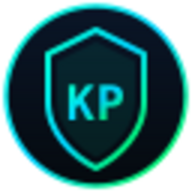
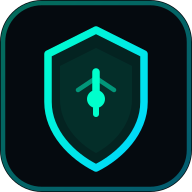
fix: переделан фавикон и логотип
- Фавикон: новый SVG щит (без текста, чёткие пути), ICO с 3 размерами (16/32/48)
- Добавлен app/favicon.ico для Next.js App Router
- PNG иконки пересозданы через rsvg-convert (чёткие, без артефактов)
- Логотип в сайдбаре: Shield иконка вместо текста КР
- data-text атрибут на заголовке для глитч-эффекта

diff --git a/components/shared/BottomNav.tsx b/components/shared/BottomNav.tsx
@@ -2,7 +2,7 @@
 
 import Link from "next/link";
 import { usePathname } from "next/navigation";
-import { Home, Gamepad2, Newspaper, User, BookOpen, Info } from "lucide-react";
+import { Home, Gamepad2, Newspaper, User, BookOpen, Info, Shield } from "lucide-react";
 import { cn } from "@/lib/utils";
 
 const navItems = [
@@ -22,7 +22,7 @@ export default function BottomNav() {
       <nav className="hidden md:flex fixed left-0 top-0 bottom-0 w-20 flex-col items-center py-6 bg-card/95 border-r border-card-border/50 z-50 backdrop-blur-md">
         <div className="mb-8">
           <div className="w-10 h-10 rounded-lg bg-accent/10 border border-accent/20 flex items-center justify-center neon-glow">
-            <span className="text-gradient font-cyber text-sm font-bold">КР</span>
+            <Shield size={22} className="text-accent" />
           </div>
         </div>
         <div className="flex flex-col gap-1 flex-1 items-center justify-center">

diff --git a/app/layout.tsx b/app/layout.tsx
@@ -9,8 +9,8 @@ export const metadata: Metadata = {
   manifest: "/manifest.json",
   icons: {
     icon: [
+      { url: "/favicon.ico", sizes: "48x48" },
       { url: "/favicon.svg", type: "image/svg+xml" },
-      { url: "/favicon.ico", sizes: "32x32" },
     ],
     apple: "/icon-192.png",
   },
@@ -40,7 +40,7 @@ export default function RootLayout({
         <ThemeProvider>
           <MatrixRain />
           <header className="hidden md:flex fixed top-0 left-20 right-0 h-14 items-center px-6 bg-card/90 backdrop-blur-md border-b border-card-border/50 z-40">
-            <span className="text-xl font-bold tracking-widest font-cyber glitch-text">
+            <span className="text-xl font-bold tracking-widest font-cyber glitch-text" data-text="КИБЕРРУБЕЖ">
               <span className="text-gradient">КИБЕР</span>
               <span className="text-foreground">РУБЕЖ</span>
             </span>
